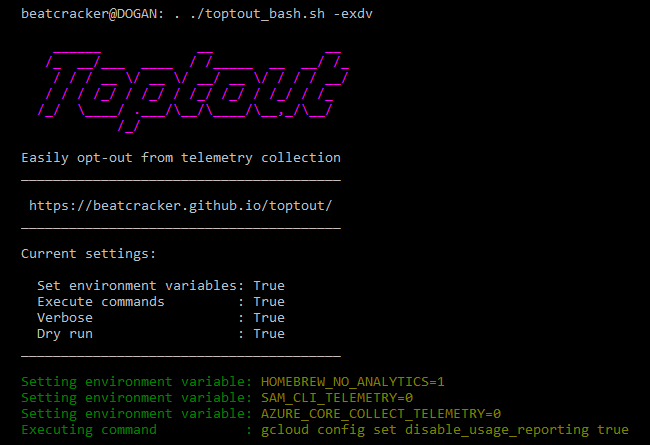
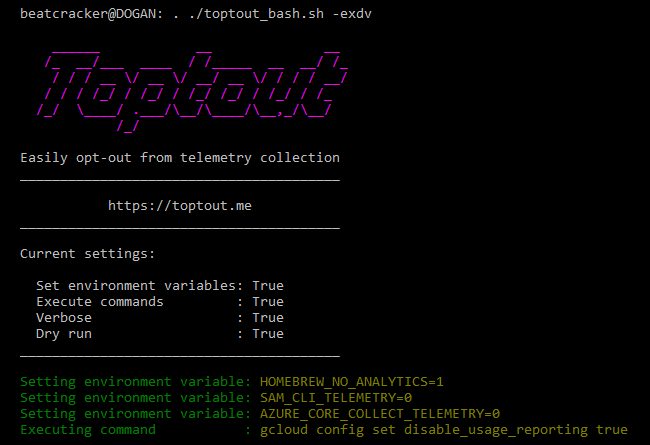
Switch to custom domain (#7)
https://beatcracker.github.io/toptout → https://toptout.me

diff --git a/README.md b/README.md
@@ -30,12 +30,12 @@ The page you see has an [awesome-list of telemetry channels](#telemetry-channels
 
 ### 🚧 API
 
-Get telemetry configuration data via API! See [openapi.yaml](https://github.com/beatcracker/toptout/blob/master/docs/swagger/openapi.yaml) definition and try it online using [Swagger-UI](https://beatcracker.github.io/toptout/swagger).
+Get telemetry configuration data via API! See [openapi.yaml](https://github.com/beatcracker/toptout/blob/master/docs/swagger/openapi.yaml) definition and try it online using [Swagger-UI](https://toptout.me/swagger).
 
 Or try it in your shell! ⬇
 
 ```shell
-curl -X GET 'https://beatcracker.github.io/toptout/api/telemetry/id/powershell-core/' -H 'accept: application/json'
+curl -X GET 'https://toptout.me/api/telemetry/id/powershell-core/' -H 'accept: application/json'
 ```
 
 ### 🤔 Future plans
